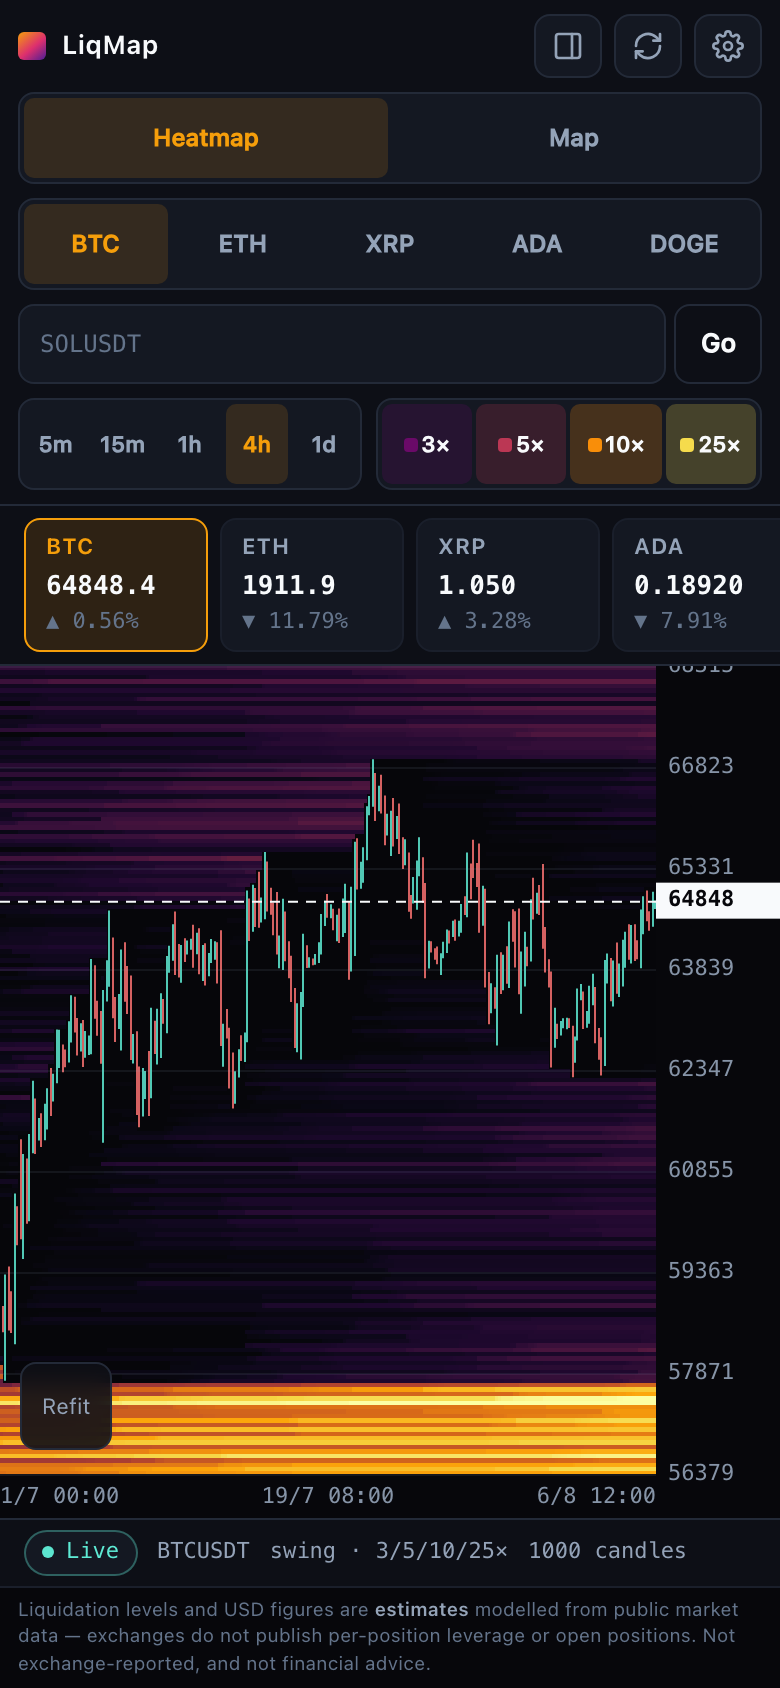
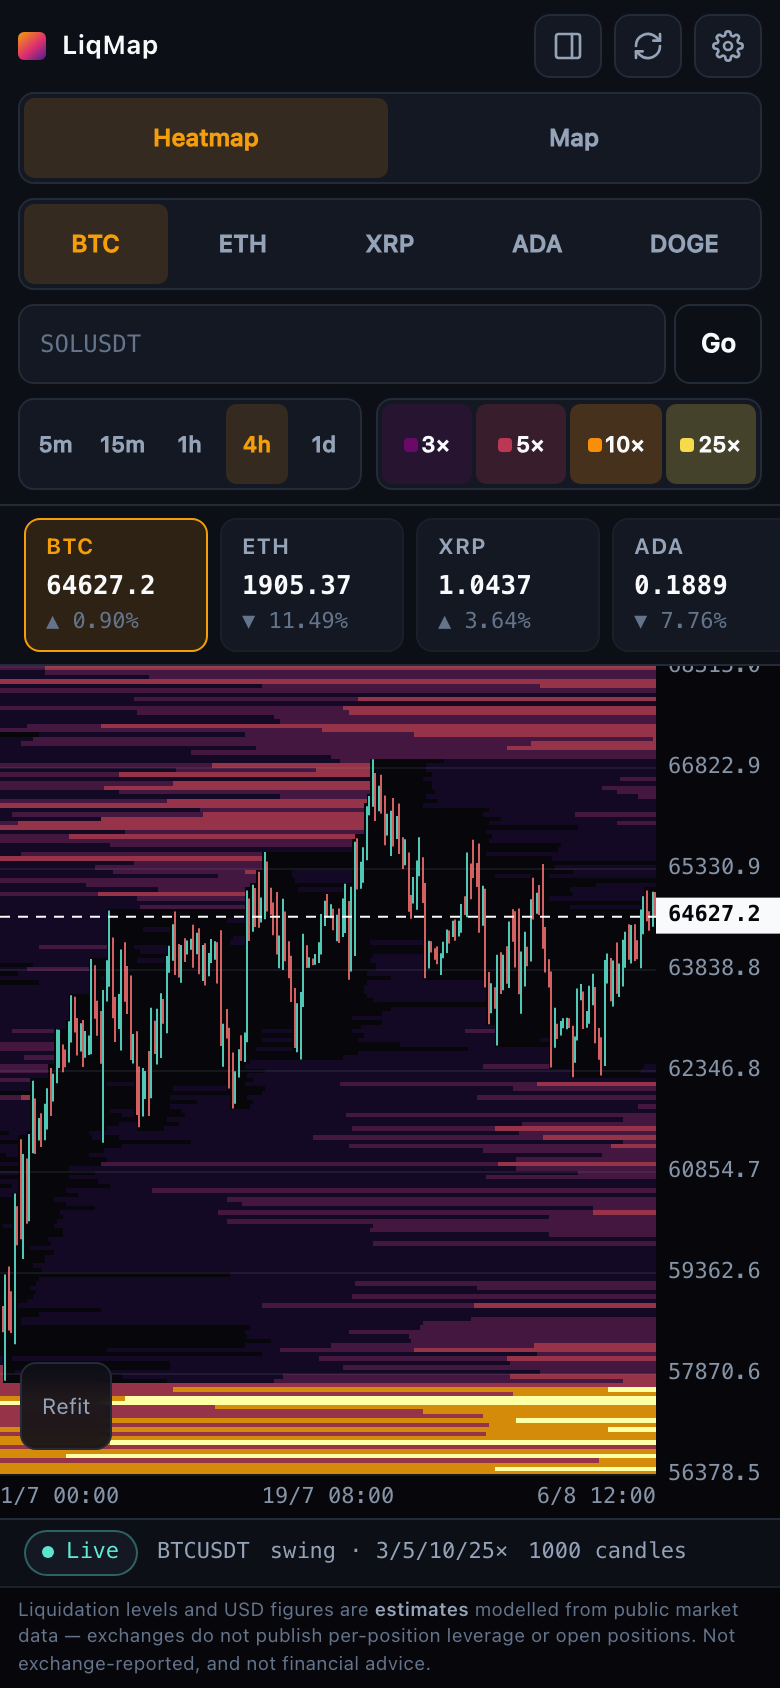
docs: colormap classes + price precision, live screenshots

diff --git a/README.md b/README.md
@@ -92,6 +92,8 @@ src/
     bands.ts        column → ranked price levels
     profile.ts      last column → binned, tier-stacked profile + cumulative curves
     profileCsv.ts   profile → CSV
+    classes.ts      ordinal intensity classes + the two colormaps
+    price.ts        tick-size → decimals, one price formatter
     panelProfile.ts active levels → per-screen-row bars, cumulative, hot pockets
     usd.ts          $12.4K / $3.2M / $1.1B formatting
     alerts.ts       relative band scaling, proximity + cooldown logic
@@ -100,6 +102,7 @@ src/
     rest.ts         kline, open interest (cursor paginated), tickers
     ws.ts           public linear socket, 20s ping, backoff reconnect
     cache.ts        TTL memo shared by the watchlist
+    instruments.ts  per-symbol tick size, cached for the session
   ui/         React
     scale.ts        the one price↔Y transform, shared by chart and side panel
     axis.ts         axis drag-to-zoom maths
@@ -126,9 +129,23 @@ For each closed candle, oldest first:
 
 One `Float32Array` per tier (`nCols × 1100`), so tier toggles never trigger a rebuild.
 
-Rendering uses inferno with `x = (score/vmax)^0.68`, `vmax` = the 99.7th percentile of the
-**non-zero** values currently on screen, and `alpha = 35 + 220·min(1, 1.25x)`. The raster is
-drawn at native bucket resolution and upscaled with smoothing off, so buckets stay crisp.
+Rendering quantises intensity into **five ordinal classes** rather than a smooth ramp — a
+continuous gradient mapped a wide middle band onto near-identical yellows, so large regions
+read as one uniform blob. Class breaks are the p50/p75/p90/p97 percentiles of the non-zero
+values currently on screen, so only ~3% of painted area can be top class, and alpha rises
+per class. Two ramps ship: **Inferno (classes)** by default and a **Classic**
+blue→cyan→green→yellow→red where red is heaviest; the choice lives in Settings and drives
+the raster, the side panel and the Map together. A legend labels each class with its est.
+USD floor. The raster is drawn at native bucket resolution and upscaled with smoothing off,
+so buckets stay crisp.
+
+### Price precision
+
+Decimals come from the instrument's own `priceFilter.tickSize`, fetched once per symbol and
+cached — BTC 1 dp, ETH 2, XRP and ADA 4, DOGE 5. One `formatPrice` feeds the axis, the live
+tag, the watchlist, all three tooltips, the Map axis, the tape, alerts and CSV, so a symbol
+renders at one precision everywhere. Formatting by magnitude, which this replaces, flipped
+XRP between `1.050` and `0.9716` across the dollar line.
 
 ### Why Bybit only
 
@@ -142,7 +159,7 @@ perpetuals; the custom input accepts any of them.
 npm test
 ```
 
-277 tests, none of which touch the network — `fetch` and `WebSocket` are stubbed. The engine
+321 tests, none of which touch the network — `fetch` and `WebSocket` are stubbed. The engine
 is pure, so it is tested directly against synthetic candles. The load-bearing cases are the
 clearing invariant (a level seeded at candle 0 survives to candle 2 and is exactly zero at
 the candle whose range covers it), USD conservation, and cumulative monotonicity outward
